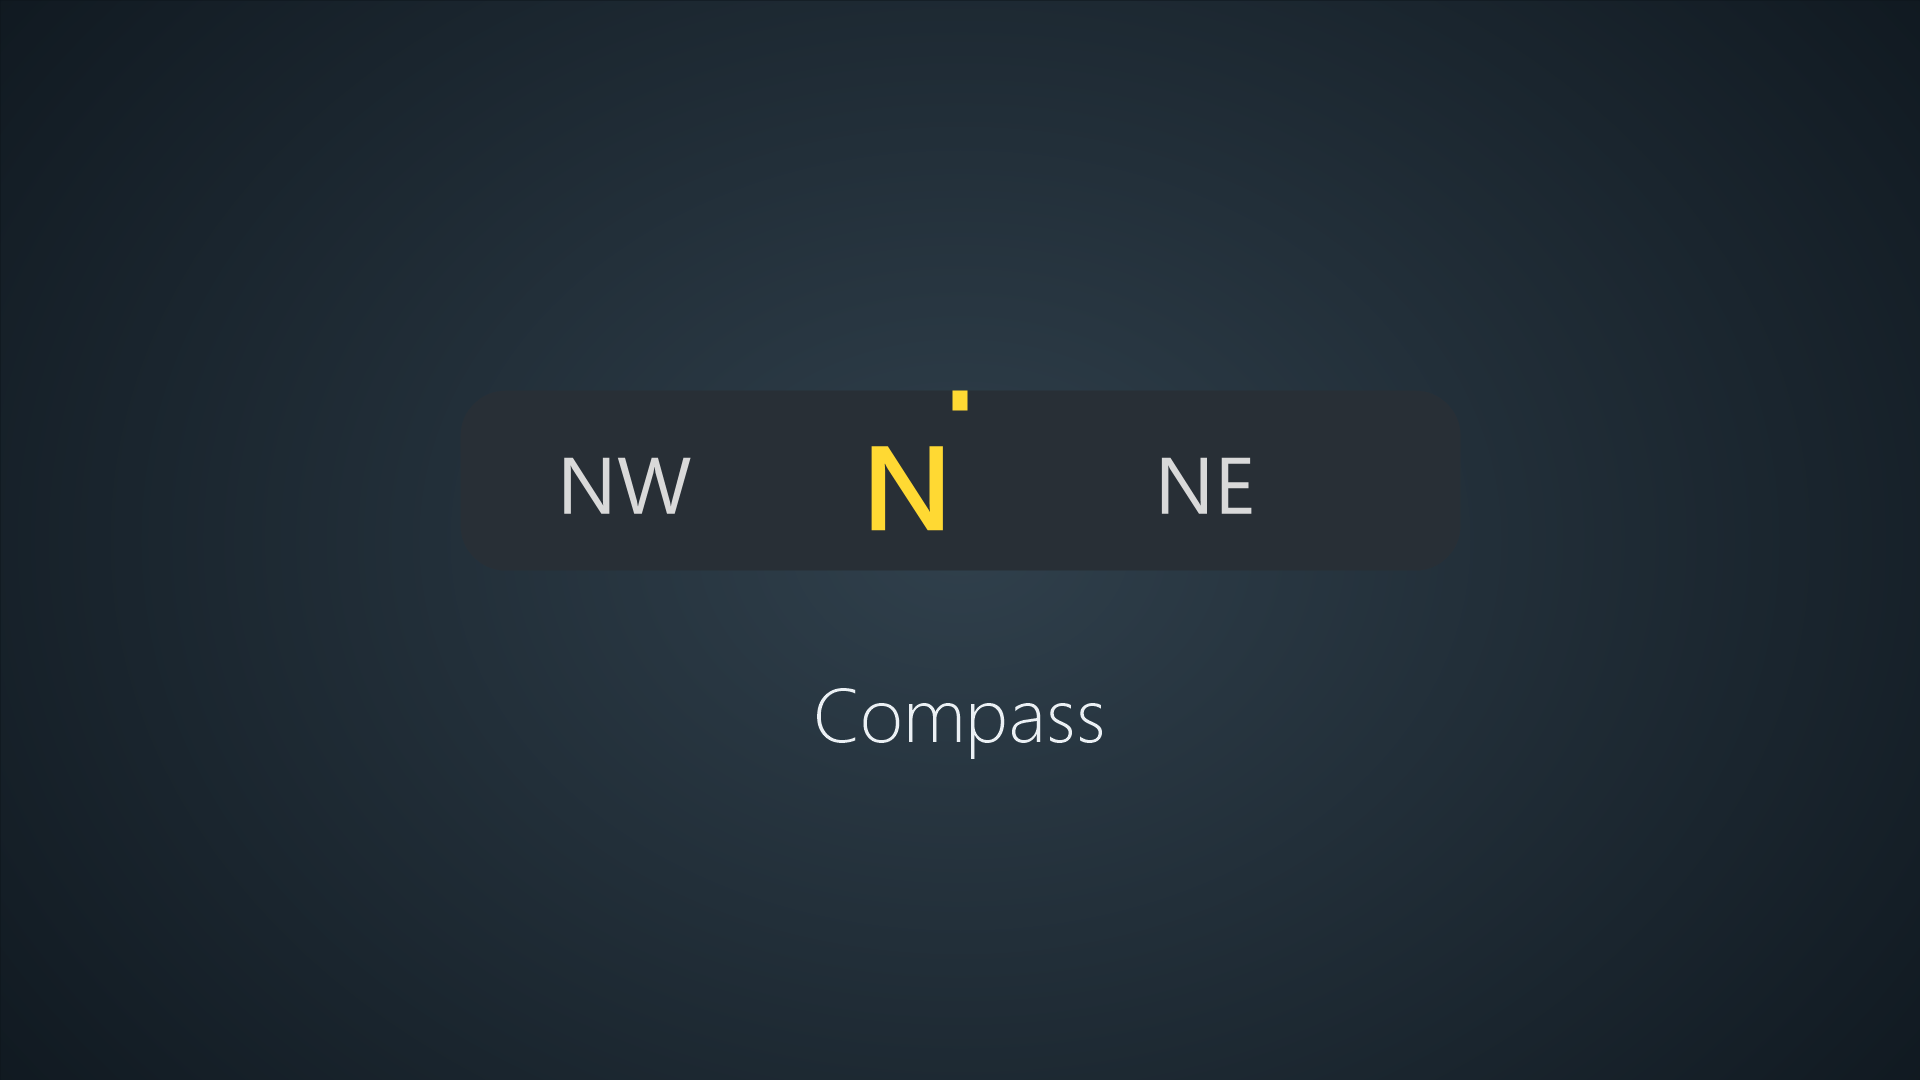
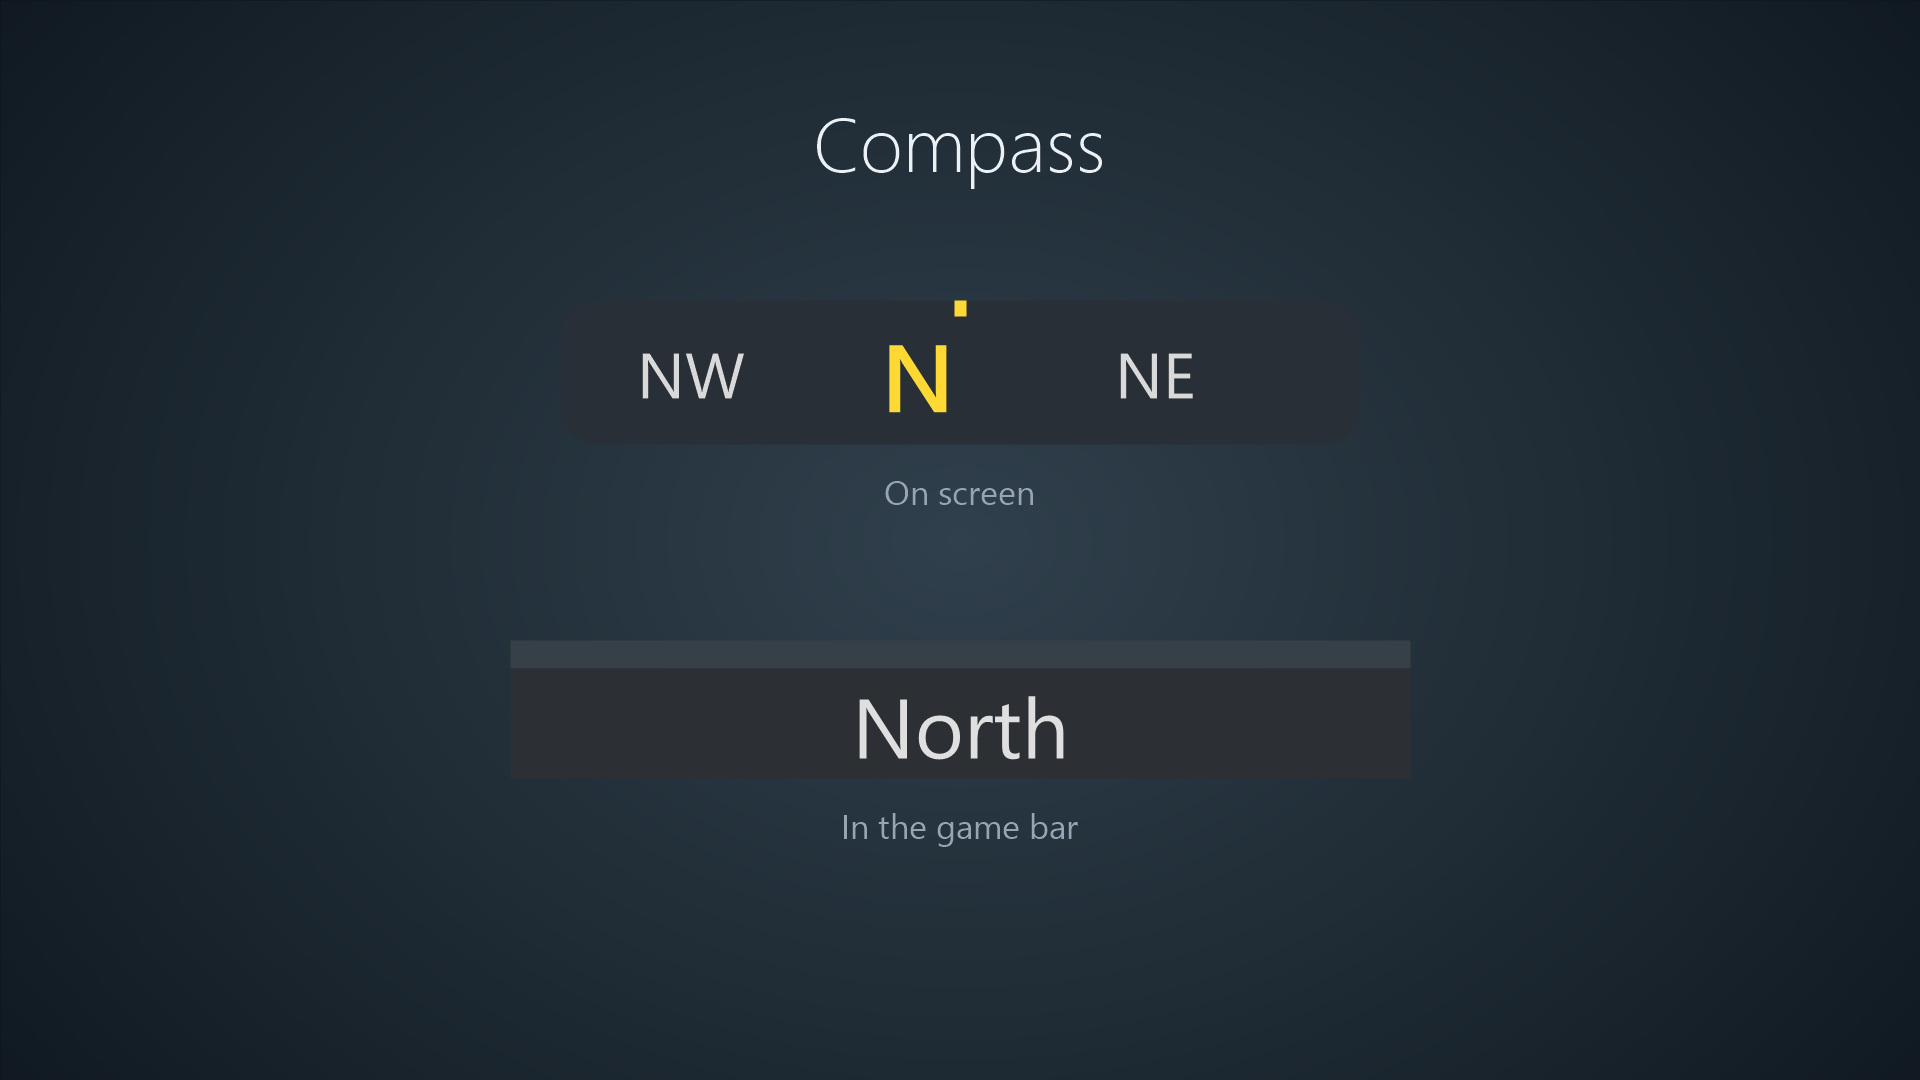
Make the game bar text the default and show both styles in the preview
The game bar text is the least intrusive option, so new saves start with it.

diff --git a/README.md b/README.md
@@ -15,7 +15,7 @@ Configure the mod per savegame (Load Game → select save → Mods tab → gear 
 
 | Setting | Options |
 |---|---|
-| Compass position | Top/middle/bottom × left/right, or Game bar |
+| Compass position | Game bar (default), or top/middle/bottom × left/right |
 | Compass size | Small, Medium, Large (screen compass only) |
 | Game bar text | Direction, Direction and degrees, Degrees |
 
